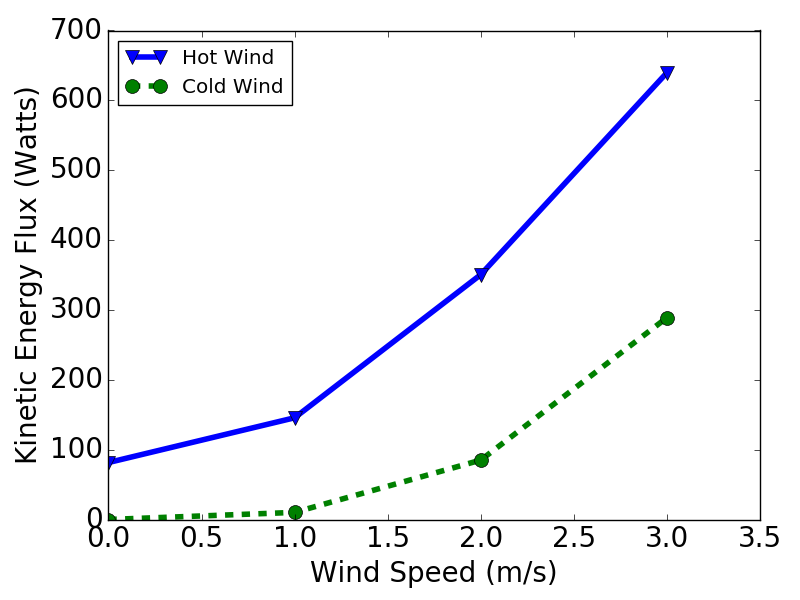
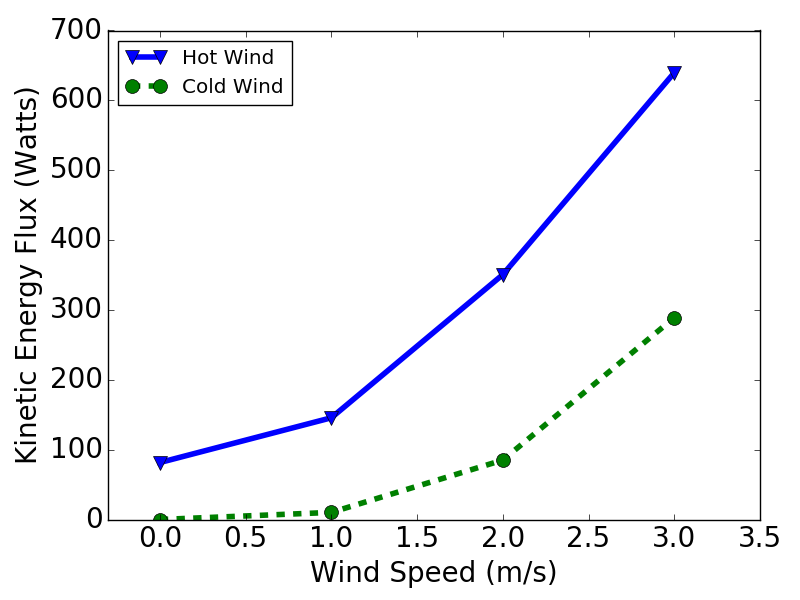
adding images and saving all

diff --git a/disputatio/routines/wind_impact/wind_one.py b/disputatio/routines/wind_impact/wind_one.py
@@ -10,7 +10,9 @@
 import numpy as np
 
 speed = [0,1,2,3]
-h     = [7.0,12.5,30.09,54.9]
+s     = [0]
+#h     = [7.0,12.5,30.09,54.9]
+h     = [7.0]
 c     = [0.0,.8745,7.3,24.8]
 
 
@@ -27,11 +29,11 @@ ax = fig.add_subplot(1,1,1)
 ax.tick_params(axis='x', labelsize=20)
 ax.tick_params(axis='y', labelsize=20)
 
-plt.plot(speed,hot,'v-', label='Hot Wind',linewidth=4,markersize=10)
-plt.plot(speed,cold,'o--', label='Cold Wind',linewidth=4,markersize=10)
+plt.plot(s,hot,'v-', label='Hot Wind',linewidth=4,markersize=30,color='blue')
+plt.plot(speed,cold,'o--', label='Cold Wind',linewidth=4,markersize=10,color='green')
 
 #overrx = np.linspace(1.0, 5.0, num=50)
-plt.xlim([-0.3,3.5])
+plt.xlim([-.3,3.5])
 plt.ylim([0,700])
 
 fsz=20
@@ -47,7 +49,7 @@ plt.xlabel(r'Wind Speed (m/s)',fontsize=fsz)
 plt.legend(loc='best')
 plt.tight_layout()
 #plt.show()
-plt.savefig('wind_impact.png')
+plt.savefig('wind_one.png')
 
 
 #

diff --git a/disputatio/routines/wind_impact/wind_only.py b/disputatio/routines/wind_impact/wind_only.py
@@ -31,7 +31,7 @@ ax.tick_params(axis='y', labelsize=20)
 plt.plot(speed,cold,'o--', label='Cold Wind',linewidth=4,markersize=10,color='green')
 
 #overrx = np.linspace(1.0, 5.0, num=50)
-plt.xlim([0,3.5])
+plt.xlim([-0.3,3.5])
 plt.ylim([0,700])
 
 fsz=20
